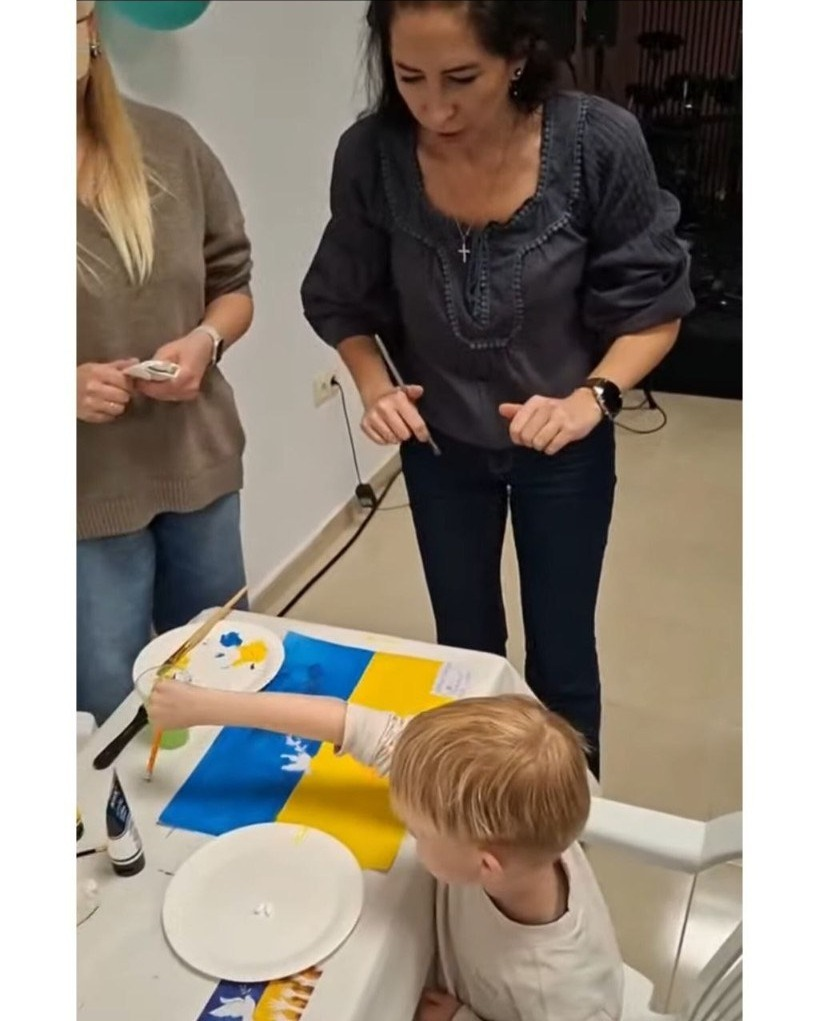
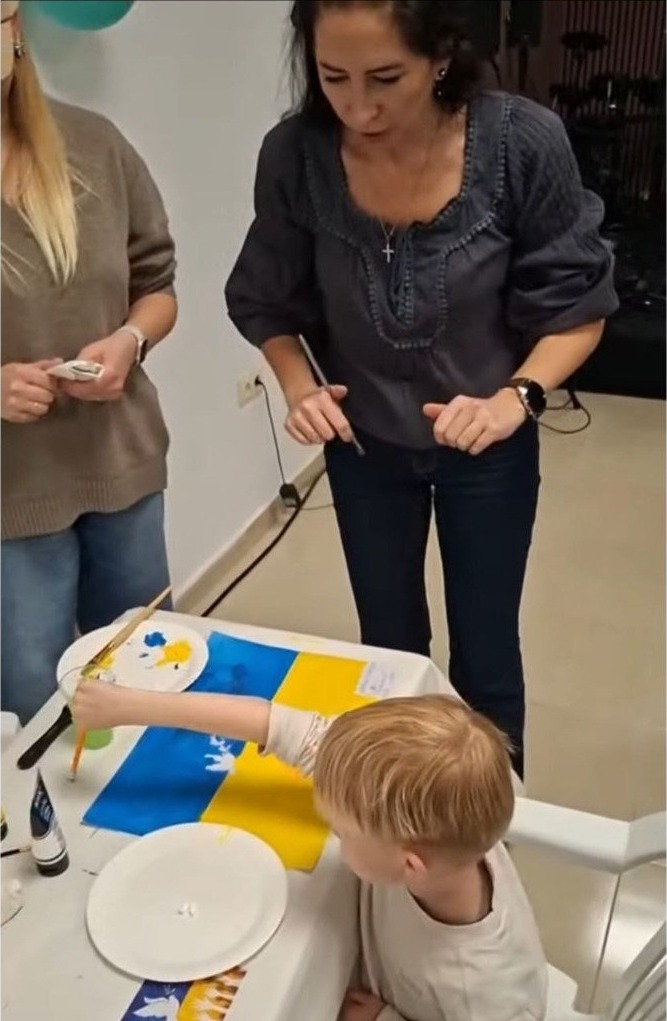
Show charity photos at natural size and strip edge bars so black frames disappear.

diff --git a/src/pages/CharityPage.tsx b/src/pages/CharityPage.tsx
@@ -156,14 +156,13 @@ export function CharityPage() {
             <div className="mt-10 grid grid-cols-1 gap-3 sm:grid-cols-2 lg:gap-4">
               {event.photos.map((photo, index) => (
                 <ScrollReveal key={photo.src} delay={index * 0.06}>
-                  <div className="relative aspect-[4/5] overflow-hidden bg-cream-dark sm:aspect-[3/4]">
-                    <LazyImage
-                      src={photo.src}
-                      alt={photo.alt}
-                      wrapperClassName="absolute inset-0 h-full w-full"
-                      className="h-full w-full object-cover"
-                    />
-                  </div>
+                  <LazyImage
+                    src={photo.src}
+                    alt={photo.alt}
+                    wrapperClassName="w-full"
+                    className="!h-auto !w-full !max-h-none"
+                    objectFit="cover"
+                  />
                 </ScrollReveal>
               ))}
             </div>

diff --git a/src/components/ui/LazyImage.tsx b/src/components/ui/LazyImage.tsx
@@ -21,9 +21,12 @@ export function LazyImage({
   const fitClass = objectFit === 'contain' ? 'object-contain' : 'object-cover';
   const sizeClass =
     objectFit === 'contain' ? 'max-h-full max-w-full' : 'h-full w-full';
+  const positionClass = wrapperClassName.includes('absolute')
+    ? 'overflow-hidden'
+    : 'relative overflow-hidden';
 
   return (
-    <div className={`relative overflow-hidden bg-cream-dark ${wrapperClassName}`}>
+    <div className={`${positionClass} bg-cream-dark ${wrapperClassName}`}>
       {!loaded && (
         <div className="absolute inset-0 animate-pulse bg-cream-dark" />
       )}
